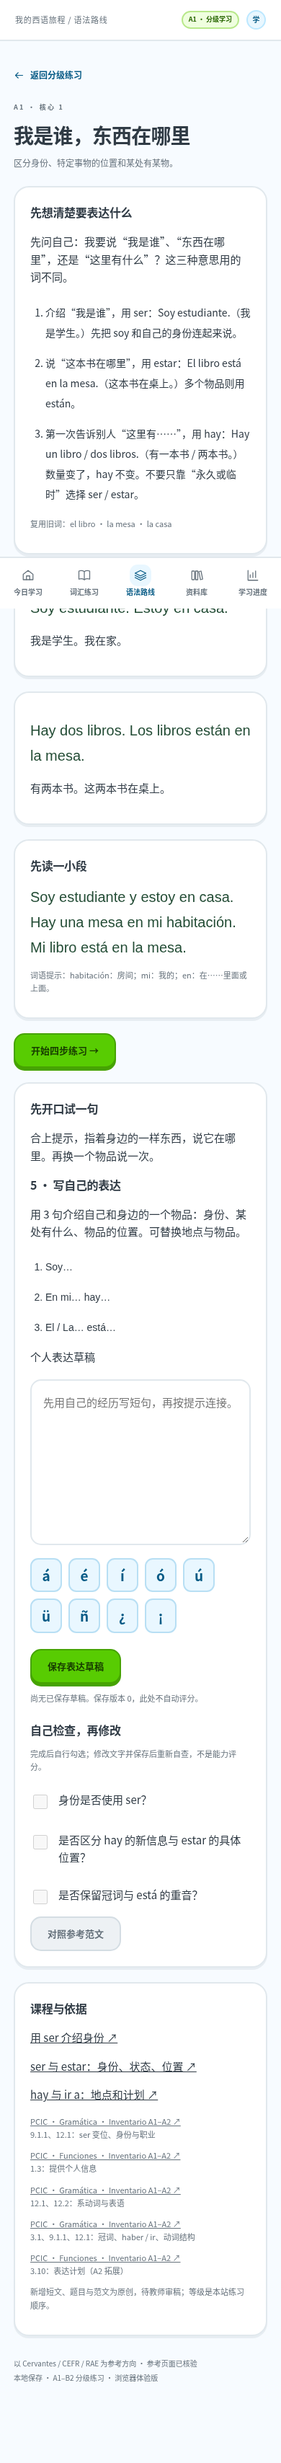
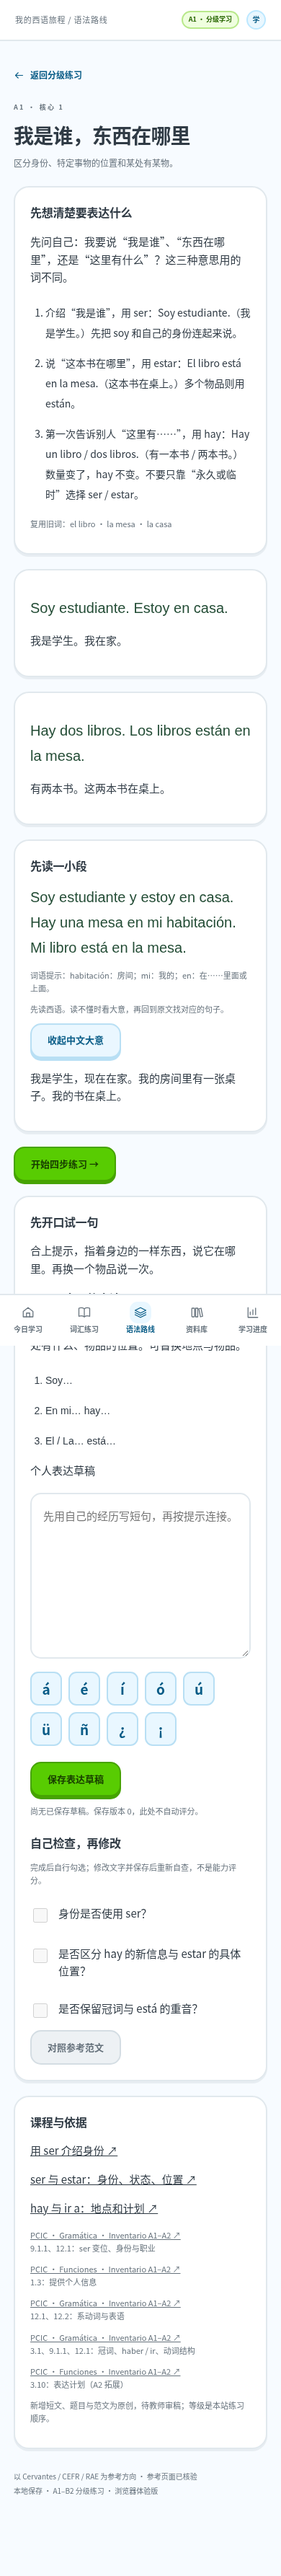
Add optional Chinese reading support across all practice levels

diff --git a/miniprogram/data/drill-coaching.js b/miniprogram/data/drill-coaching.js
@@ -1,121 +1,145 @@
 // 原创教学支架：先找到判断线索，再尝试作答；不存入学习成绩。
 module.exports = {
   'a1-place': {
+    meaning: "我是学生，现在在家。我的房间里有一张桌子。我的书在桌上。",
     approach: '先问自己：我要说“我是谁”、“东西在哪里”，还是“这里有什么”？这三种意思用的词不同。',
     transfer: '合上提示，指着身边的一样东西，说它在哪里。再换一个物品说一次。',
     hints: ['estudiante 说的是身份，不是人在什么地方。先判断意思，再选动词。', '这里已经知道是哪本书，只想说明位置。留意“这本书”是一个还是多个。', '第一句是在介绍有两本书；第二句说的是“这两本书”的位置。两句话不需要用同一个动词。', '先在短文里找 Mi libro，再看它后面的地点。']
   },
   'a1-routine': {
+    meaning: "安娜住在一座小城市。她早上学习西语，下午工作。每逢周日她不工作。",
     approach: '先找到“谁在做”。说“我学习”和“我们学习”时，西语会改变动词的结尾。',
     transfer: '不用看例句，说出你每天做的一件事，再用 no 说一件今天不做的事。',
     hints: ['Yo 是“我”。这句说的是“我学习”，先想 estudiar 与“我”搭配时怎样改变结尾。', 'Nosotros 是“我们”。回到 vivir 的我们形式，注意结尾。', '句子里两个动作都由同一个“我”做。检查两个动词，其他词先保持原样。', '题目问“不工作”的时间，找短文中 no trabaja 后面的时间词。']
   },
   'a1-likes': {
+    meaning: "路易斯喜欢咖啡，也喜欢苹果。他喜欢在家阅读，因为能学到新词。",
     approach: '说喜欢时，先看喜欢的是一个东西、多个东西，还是做一件事。暂时不用硬背“语法主语”这个术语。',
     transfer: '说一种你喜欢的东西，再说一种你喜欢做的事。试着用 porque 补一个理由。',
     hints: ['先看 los libros：是一本书，还是多本书？这决定动词是否加 n。', 'estudiar 表示“学习这件事”，不是多个东西。想想“喜欢做一件事”用哪种形式。', '分别检查 el café 和 las manzanas。一个是单数，一个是复数，不要把两处都写成一样。', '问“为什么”，先找到 porque，再读它后面的理由。']
   },
   'a2-weekend': {
+    meaning: "周六我去看望了一位朋友。我们先在她家吃饭，然后去了电影院，看了一部电影。最后我回了家。",
     approach: '先说活动发生在什么时候，再说谁做了什么。用“先、然后、最后”把昨天的事情串起来。',
     transfer: '不看范文，用两个短句说昨天做过的事，再用 después 连起来。',
     hints: ['Ayer 把活动放在昨天；yo 是“我”。这里要选 ver 表示一次已结束活动的形式。', '先看谁买票：Ana，不是 yo。第三人称过去式的重音也要写出来。', 'Ayer 提醒我们这是昨天的活动。把两个现在时动作改成“我做过了”的形式。', '先找到 fuimos al cine，再向前看 Primero 引出的活动。']
   },
   'a2-shopping': {
+    meaning: "安娜在一家商店里。她喜欢一件衬衫，可是这个尺码偏小。她问：“你能帮我一下吗？我需要大一点的尺码。”",
     approach: '先指清楚想买哪件东西，再请求帮助。再次提到同一件东西时，可以用一个小代词代替它。',
     transfer: '想象你在买一件衣服：先指给店员看，再请对方帮你找合适的尺码。',
     hints: ['camisas 是阴性，而且不止一件。指示词也要同时配合这两个特点。', '你买的是前面的 camisa。回想“它”作阴性单数宾语时用哪个代词。', 'Puedes 已经随“你”变了形式；后面的动作保持动词原形。只改后面一个动词。', '读 pero 后的尺码问题，再看 Necesito 提出的需要。']
   },
   'a2-plans': {
+    meaning: "明天我们打算去参观这座城市。如果天气晴朗，我们就去海滩；如果下雨，我们就去博物馆。博物馆比海滩离酒店更近。",
     approach: '先比较两个选择，再说什么条件下去哪里。注意：计划还没有发生，条件也可能不满足。',
     transfer: '为明天准备两个安排：晴天做什么，下雨做什么。分别用 si 开头说出来。',
     hints: ['tan 表示“一样……”。回想“tan + 形容词 + 连接词”这一整组。', 'Nosotros 是“我们”。这里只填 ir 的现在时，后面的 a visitar 已经给出。', 'podemos 表示“我们可以”，后面的动作不用再次按“我们”变位。', '找 Si llueve 这一句，不要选晴天时的安排。']
   },
   'b1-story': {
+    meaning: "安娜小时候住在一座安静的城市，每天下午都会阅读。有一天她搬到了马德里。第一晚她正在学习时，电话响了，是她的朋友打来的。",
     approach: '讲过去的故事时，先分清“当时一直怎样”和“后来发生了什么”，而不是只看一件事持续多久。',
     transfer: '先说过去的一种习惯，再补一个打断日常的事件，让别人听出两者的区别。',
     hints: ['De niño 和 cada tarde 说明童年反复做的事，不是在报告某一次读完一本书。', '学习是当时的背景，电话突然响了一次。空格需要推动故事的事件形式。', 'De niña 和 cada tarde 提示过去的生活与习惯。两个动词都按这个视角调整。', '找 primera noche 附近的句子，分清学习的背景与突然发生的事。']
   },
   'b1-advice': {
+    meaning: "路易斯想改善发音。安娜建议他每天大声朗读，也会慢慢说话，好让他听懂。路易斯通过复习来记住词语。",
     approach: '先看谁提出建议、谁要去做。说目的时，也看看前后是不是同一个人。',
     transfer: '给朋友一条学习建议，再解释你这样做是为了什么。先理清两句话里各是谁行动。',
     hints: ['建议是我提的，学习要由“你”做。que 后的动词需要表达建议，而非陈述你已经在学习。', '慢慢说话的是我，听懂的是你。para que 后要用与 tú 配合的虚拟式。', '学习和想学会西语的都是“我”。同一行动者说目的时，不需要 para que。', '先找 repasa（复习），看看是谁在复习、又是为了什么。']
   },
   'b1-opinion': {
+    meaning: "据老师说，阅读有助于学习词语。安娜觉得阅读有用，但并不认为只靠阅读就够了；她还需要练习对话。这个看法来自她自己的经历。",
     approach: '先说清自己的看法，再给理由；如果有不足，再补一句限制。“我认为”和“我不认为”常用不同语气。',
     transfer: '评论一种学习方法：说你觉得它哪里有用，再说它不能单独解决什么问题。',
     hints: ['这里直接肯定“课程有用”，用来陈述自己的判断。不要把肯定判断当成否定判断。', 'No creo 表示不认同“这本书足够”这个判断。回想 ser 在典型否定判断中的形式。', '先看 el curso 是单数，再把 ser 变成符合肯定判断的动词。', '找到 Ana 的评价，同时读 útil 后的转折，别只选“有用”而漏掉限制。']
   },
   'b2-concession': {
+    meaning: "这个项目需要花钱，也需要时间。玛尔塔虽然知道它要花钱，仍支持它，因为它能帮助社区。不过，她提出先做小范围试行。因此，她建议扩大项目之前先评估结果。",
     approach: '同样一句“虽然要花钱”，可以是在承认事实，也可以是在设想可能的费用。先判断说话者在做哪一种。',
     transfer: '分别为“费用已经确定”和“费用还未确定”写一句让步表达，解释你为什么选这种语气。',
     hints: ['题目把费用设为尚未确定的假设。先确定这个立场，再选择 aunque 从句的语气。', '这里明确把费用作为事实来陈述。与上一题的假设语境作比较，不要机械照抄。', '未来的支持决定保持不变；只处理从句里尚未确定的费用。', '找 antes de ampliarlo（扩大之前）前面的动作，看看先试行是为了什么。']
   },
   'b2-hypothesis': {
+    meaning: "团队没有足够的经费。如果资源更多，就会提供免费课程。但按现有预算，只能组织一个小组。所以团队建议先从十位参与者开始，之后再调整计划。",
     approach: '先交代现实限制，再设想“如果条件更好，会怎样”。让听者分清现在能做的事与理想情况。',
     transfer: '用一句话说明自己的现实限制，再设想条件改变后会怎样。最后说一个现在可执行的小办法。',
     hints: ['主句 estudiaría 提示这是设想的结果。si 从句要与这种假设配合，不能也写成条件式。', '这里在设想自己有更多时间。回想 tener 的 -ra 或 -se 形式，任选一种即可。', '错误在 si 后的动词。主句已经表示假设结果，先保持主句不变。', '区分 Si tuviera 描述的理想条件与 presupuesto actual 指出的现有条件。']
   },
   'b2-report': {
+    meaning: "周一，安娜宣布：“我明天会提交报告。”周三，路易斯写道，安娜曾宣布会在次日提交报告。他也说明，自己不知道她是否已经提交。",
     approach: '转述时先画一条时间线：谁在何时说话，你又在何时转述。原话中的“明天”不能脱离原来的日期。',
     transfer: '设定周一的一个计划，在周三转述它。再加一句说明计划是否已经得到确认。',
     hints: ['来访在原来说话的时间之后，但转述的参照点是过去。想想如何表达“从过去看未来”。', '报告是在宣布之后计划提交的。这里需要条件式，并注意词尾的重音。', '把原话里的 mañana 对应到具体星期，再判断周三说 mañana 会不会指到另一天。', '找到 no sabía si 后面的内容：不知道是否完成，就不能当作已经完成。']
   },
   'a1-greetings': {
+    meaning: "早上，安娜走进一家咖啡馆，说：“早上好。请来一杯咖啡。”之后她说“谢谢”，服务员回答“不客气”。",
     approach: '把问候放进真实对话：打招呼、点单、道谢、回应。每句只完成一个小动作。',
     transfer: '用自己的名字或想点的饮品替换例词，开口演一遍两个人的小对话。',
     hints: ['现在是早晨。选见面时的问候，不要选回应“谢谢”的话。', '想想点单时怎样加上“请”。这是一组两个词的礼貌短语。', '这是直接提问。检查西语问句开头和结尾是否各有一个问号。', '找 Gracias 后服务员的回应，不要把顾客的点单当成回答。']
   },
   'a1-agreement': {
+    meaning: "我家里有一张小桌子和两本书。这些书很小。桌子附近有两把椅子，这些椅子很大。",
     approach: '说“这些小桌子”时，三个词要一起变化。先确定是一件还是多件，再让冠词和形容词跟着名词走。',
     transfer: '指着房间里的一件物品说一句，再把它想成两件，看看哪些词需要变化。',
     hints: ['先检查桌子是阴性，再检查每个词是否都表示多个。不要只看第一个词。', 'dos 提示不止一座城市。ciudad 以辅音结尾，想想这里加 -s 还是 -es。', 'libros 是阳性复数。两个需要修改的词都跟它配合，名词本身不用改。', '题目找“大”的物品。先找 grandes，再看是谁很大。']
   },
   'a1-questions': {
+    meaning: "路易斯在家学习。今天他不工作，因为是周日。安娜问：“你在读什么？”路易斯回答：“我在读一本西语书。”",
     approach: '提问前先想清楚要知道什么：地点、时间、人，还是原因。疑问词就像给问题贴一个标签。',
     transfer: '问朋友在哪里学习、为什么学习，再替自己回答一次。留意提问与回答中的“为什么 / 因为”。',
     hints: ['想知道在哪里，就选问地点的词，而不是问人或时间的词。', '题目在问原因。想想疑问的“为什么”是几个词，哪个词带重音。', '先找到表示动作的 estudio，再把 no 放到它前面。', '找到 no trabaja 后面的 porque，读它给出的原因。']
   },
   'a2-routine': {
+    meaning: "安娜七点起床。洗澡后，她准备早餐。她上午工作，晚上阅读，十一点睡觉。",
     approach: '说起床、洗澡、睡觉时，把小代词和动词作为一组来记，再用时间和顺序词连成一天。',
     transfer: '不看范文，说自己起床与睡觉的时间，再用 después de 补一项中间的活动。',
     hints: ['Yo 是“我”。先选 levantarse 与“我”搭配的小代词，后面的动词已经给出。', '题目要包括代词和动词。检查“我”的小代词，再检查 acostarse 的词干变化。', 'Después de 后面的动作使用不定式；不用按“我”再次变位。', '先在短文里找阅读的动作，再看它旁边的时间短语。']
   },
   'a2-help': {
+    meaning: "路易斯嗓子疼，打电话到医疗中心预约。他说自己需要和一位女医生聊一聊。接电话的人问了他的名字。",
     approach: '先说哪里不舒服，再说需要什么帮助。描述疼痛时，动词跟身体部位的单复数变化。',
     transfer: '用一个虚构场景练习描述不适和请求预约，只练表达，不把例句当作诊断或治疗办法。',
     hints: ['先看 los pies 表示一个还是多个部位，doler 的形式跟它配合。', 'la cabeza 是一个部位。与上一题的多个部位比较，动词需要不同结尾。', 'Tengo que 已经表示“我需要”。后面的具体动作使用动词原形。', '找 Luis 打电话时提出的请求，区分预约目的与身体不适的描述。']
   },
   'a2-travel': {
+    meaning: "安娜和路易斯已经订好了一个房间。安娜买好了票，路易斯给酒店写了信。他们还没有收拾行李，打算明天出发。",
     approach: '把“已经做了什么”拆成两部分：haber 随人称变化，后面接分词。本包专门练这种表达方式。',
     transfer: '说出旅行前已做的一项准备，再说一项还没完成的准备。两句都试用 haber 加分词。',
     hints: ['Yo 决定 haber 的人称形式；reservado 已经是分词，不用改它。', 'escribir 的分词不是规则的 -ido 形式。回想“写过”的常见不规则分词。', 'Hemos 已经随“我们”变了形式；把后面的 llegar 改成分词。', '找 todavía no 后的活动，别选已经完成的预订或联系酒店。']
   },
   'b1-relative': {
+    meaning: "玛尔塔在一所下午开课的学校学习。帮助她的老师会准备清晰易懂的练习。玛尔塔所在的城市有一家大图书馆。",
     approach: '先指出要介绍的人、物或地点，再把补充信息接上去。这样就能少重复一次名词。',
     transfer: '先用两句介绍自己熟悉的人或地点，再尝试合并成一句，检查指的还是同一个对象。',
     hints: ['La escuela 是地点；后面补充你在哪里学习。想想哪种关系词专门连接地点。', 'La profesora 指人，后面补充她怎样帮助你。这里不在说明地点。', '两句中的 curso 是同一个课程。保留第一句，把第二次出现的主语换成关系词。', '找学校提供课程的动词，再看后面的时间。']
   },
   'b1-wishes': {
+    meaning: "安娜写信给朋友：“很高兴你来到我们这座城市。我希望我们能一起学习。我希望自己五点到图书馆。”朋友回答说，她也想学习。",
     approach: '说高兴或希望时，先看前后是不是同一个人。“我希望自己来”和“我希望你来”的接法不同。',
     transfer: '分别说一个对自己的希望和一个对朋友的希望，看看哪句可以直接接不定式。',
     hints: ['把 alegrarse 的搭配作为一组回忆，que 前有一个介词，不能省掉。', '这里是对“你在这里”表达高兴。用 estar 与 tú 配合的虚拟式，检查重音。', '希望和到达的都是 yo。让到达直接接在 espero 后，不必另外开一个 que 从句。', '找 Espero 附近的愿望，确认是朋友们一起做的活动。']
   },
   'b1-anterior': {
+    meaning: "路易斯到车站时，火车已经开走了。他前一天就买好了票。之后，他打电话给安娜，解释了发生的事。安娜帮他寻找另一班火车。",
     approach: '先定一个过去的参照点，再问另一件事是在它之前还是之后。过去完成时用来把更早的事标出来。',
     transfer: '选两件过去的事，先说较晚的一件，再补一句交代此前已经完成的事。',
     hints: ['llegué 是参照点；火车离开发生得更早。salido 已经给出，只需补 haber。', '买票的是“我们”，并且发生在到达之前。把 haber 配合到 nosotros。', 'había 后要接分词，不能直接接动词原形。', '找 ya había 交代的更早活动，再与到达及发车比较。']
   },
   'b2-specific': {
+    meaning: "玛尔塔已经知道一个提供练习的课程。她的兄弟还在寻找有夜间课的课程，尚未找到符合要求的。玛尔塔建议他到另一所学校问一问。",
     approach: '先分清对象已经确定，还是只在提出寻找要求。我们“已有的课程”和“想找到的课程”用的语气可能不同。',
     transfer: '写一句介绍已有课程，再写一句寻找理想课程。用自己的话解释对象是否已经确定。',
     hints: ['这里还没找到课程，只是在列出要求。不要把这种要求写成已有对象的事实描述。', 'Tengo 表明老师已经确定存在。后面的经验是在介绍这位老师的情况。', 'No hay nadie 否定了对象的存在。结合整句意思选择 poder 的语气。', '比较 Marta 和她哥哥的情况，找到仍在寻找的人。']
   },
   'b2-passive': {
+    meaning: "采访了二十位参与者，随后分析了回答。结果发表在一份报告中。报告说明了方法，但没有包含参与者的姓名。",
     approach: '先看句子把注意力放在哪里：分析了什么、公布了什么，还是有人采访了谁。这决定动词怎样配合。',
     transfer: '写一句强调“结果”的报道，再写一句不说明采访者是谁的报道。检查两句的主语与宾语。',
     hints: ['这里的 los resultados 是被公布的事物，也决定被动 se 结构的动词数量。', 'Las muestras 是阴性复数。ser 后的被动分词也要与它配合。', 'a los participantes 是被采访的人。按题目指定的无人称 se 结构，不能让它决定动词的复数。', '找 no incluye（不包含）后面的内容。采访过某些人，不等于公开了他们的名单。']
   },
   'b2-evaluation': {
+    meaning: "团队提议开一家图书馆。重要的是让社区能够使用它。项目需要经费，不过可以先从一个小空间开始。因此，团队建议先试行并评估，再扩大。",
     approach: '先说明什么最重要，再给理由和限制，最后提出能验证的建议。连接词要帮助别人跟上你的思路。',
     transfer: '为一个学习活动提出改进：写清优先事项、一个限制，以及怎样判断改进是否有效。',
     hints: ['这里不是指某个阳性或阴性名词，而是在概括“重要的事情”。', 'Es importante que 引出对情况的评价；这里表达“有尊重”，用 haber 的虚拟式。', 'todos 决定参与者是复数；Es importante que 决定从句要用评价语境中的虚拟式。', '找到建议的先后顺序：先试行和评估，还是立即扩大？']

diff --git a/web/app.js b/web/app.js
@@ -154,10 +154,10 @@
   function drillPage(id) {
     const p=L.drillPacks.find(p=>p.id===id);
     if(!p)return '<div class="card empty">没有找到练习包。<a href="#drills">返回分级练习</a></div>';
-    if(!drillEditor||drillEditor.id!==id){const d=state.drillDrafts[id];drillEditor={id,text:d?d.text:'',saved:!!d,revisions:d?d.revisions:0,checks:d?d.checks:[],hasPrevious:!!d&&typeof d.previousText==='string',dirty:false,showModel:false};}
+    if(!drillEditor||drillEditor.id!==id){const d=state.drillDrafts[id];drillEditor={id,text:d?d.text:'',saved:!!d,revisions:d?d.revisions:0,checks:d?d.checks:[],hasPrevious:!!d&&typeof d.previousText==='string',dirty:false,showModel:false,showMeaning:false};}
     const unlocked=L.drillUnlocked(state,id),previous=L.drillPacks.find(d=>d.id===p.previousId);
     const head=`${btn(`${icon('back')} 返回分级练习`,'drills','','back')}${heading(`${p.level} · ${p.branch==='core'?'核心':'巩固'} ${p.levelNumber}`,p.title,p.goal)}`;
-    if(!unlocked||!drillQuiz||drillQuiz.id!==id)return `<section class="reading">${head}${unlocked?'':`<div class="notice">按前置关系练习，前一包“${esc(previous.title)}”最佳正确率至少 75%。${btn('查看前一包','drill',`data-id="${p.previousId}"`,'secondary')}</div>`}<div class="card"><h2>先想清楚要表达什么</h2><p>${esc(p.approach)}</p><ol class="rules">${p.rules.map(r=>`<li>${esc(r)}</li>`).join('')}</ol><p class="tiny">复用旧词：${esc(p.recycled.join(' · '))}</p></div>${p.examples.map(([es,zh])=>`<div class="card"><p class="example" lang="es">${esc(es)}</p><p>${esc(zh)}</p></div>`).join('')}<div class="card"><h2>先读一小段</h2><p class="example" lang="es">${esc(p.reading)}</p><p class="tiny">词语提示：${esc(p.glossary)}</p></div>${btn('开始四步练习 →','drill-begin',`data-id="${id}" ${unlocked?'':'disabled'}`)}${drillOutput(p,unlocked)}<div class="card"><h2>课程与依据</h2>${p.lessonIds.map(id=>`<p><a href="#lesson/${id}">${esc(C.lessons.find(l=>l.id===id).title)} ↗</a></p>`).join('')}${[...new Map(p.references.map(r=>[r.sourceId+r.section,r])).values()].map(r=>{const s=C.sources.find(s=>s.id===r.sourceId);return `<p class="tiny"><a href="${esc(s.url)}" target="_blank" rel="noopener noreferrer">${esc(s.title)} ↗</a><br>${esc(r.section)}</p>`;}).join('')}<p class="tiny">新增短文、题目与范文为原创，待教师审稿；等级是本站练习顺序。</p></div></section>`;
+    if(!unlocked||!drillQuiz||drillQuiz.id!==id)return `<section class="reading">${head}${unlocked?'':`<div class="notice">按前置关系练习，前一包“${esc(previous.title)}”最佳正确率至少 75%。${btn('查看前一包','drill',`data-id="${p.previousId}"`,'secondary')}</div>`}<div class="card"><h2>先想清楚要表达什么</h2><p>${esc(p.approach)}</p><ol class="rules">${p.rules.map(r=>`<li>${esc(r)}</li>`).join('')}</ol><p class="tiny">复用旧词：${esc(p.recycled.join(' · '))}</p></div>${p.examples.map(([es,zh])=>`<div class="card"><p class="example" lang="es">${esc(es)}</p><p>${esc(zh)}</p></div>`).join('')}<div class="card"><h2>先读一小段</h2><p class="example" lang="es">${esc(p.reading)}</p><p class="tiny">词语提示：${esc(p.glossary)}</p><p class="tiny">先读西语。读不懂时看大意，再回到原文找对应的句子。</p>${btn(drillEditor.showMeaning?'收起中文大意':'看中文大意','drill-meaning',`aria-expanded="${!!drillEditor.showMeaning}"`,'secondary')}${drillEditor.showMeaning?`<p class="reading-meaning">${esc(p.meaning)}</p>`:''}</div>${btn('开始四步练习 →','drill-begin',`data-id="${id}" ${unlocked?'':'disabled'}`)}${drillOutput(p,unlocked)}<div class="card"><h2>课程与依据</h2>${p.lessonIds.map(id=>`<p><a href="#lesson/${id}">${esc(C.lessons.find(l=>l.id===id).title)} ↗</a></p>`).join('')}${[...new Map(p.references.map(r=>[r.sourceId+r.section,r])).values()].map(r=>{const s=C.sources.find(s=>s.id===r.sourceId);return `<p class="tiny"><a href="${esc(s.url)}" target="_blank" rel="noopener noreferrer">${esc(s.title)} ↗</a><br>${esc(r.section)}</p>`;}).join('')}<p class="tiny">新增短文、题目与范文为原创，待教师审稿；等级是本站练习顺序。</p></div></section>`;
     if(drillQuiz.result){const r=drillQuiz.result,next=L.nextDrillPack(state,id);return `<section class="reading">${head}<div class="card result-card"><div class="result-score">${r.score}%</div><h2>${r.passed?'基础练习已达标':'再巩固一次'}</h2><p>答对 ${r.correct} / ${r.total} 题；错项保留在列表，重新练习答对后移除。</p><p class="tiny">75% 是本包继续练习的门槛，不能证明语言等级；个人表达需自行检查与反馈。</p><div class="actions">${btn('写自己的表达 →','drill-output')}${btn('重练四步练习','drill-begin',`data-id="${id}"`,'secondary')}${r.passed&&next?btn('继续下一包 →','drill',`data-id="${next.id}"`,'secondary'):''}</div></div></section>`;}
     const q=p.questions[drillQuiz.index],f=drillQuiz.feedback;
     return `<section class="reading">${head}${pill(`${drillQuiz.index+1} / 4`)}<h2 class="question-title">${esc(q.title)}</h2>${drillQuiz.index===3?`<div class="card"><p class="example" lang="es">${esc(p.reading)}</p><p class="tiny">${esc(p.glossary)}</p></div>`:''}<p>${esc(q.prompt)}</p>${UI.hint(q,drillQuiz,'drill')}${UI.controls({question:q,session:drillQuiz,prefix:'drill',limit:500,note:'重音和 ñ 也是拼写的一部分。可以用重音按钮输入。'})}${UI.feedback(f,{action:'drill-next',label:drillQuiz.index+1===drillQuiz.total?'保存并查看结果':'下一步 →'})}</section>`;
@@ -371,6 +371,7 @@
     }
     else if(action==='drill-reset'){const d=state.drillDrafts[drillEditor.id];Object.assign(drillEditor,{text:d?d.text:'',dirty:false,showModel:false,checks:d?d.checks:[]});render();}
     else if(action==='drill-revert'){if(!drillEditor||drillEditor.dirty)return;const d=commit(s=>L.revertDrillDraft(s,drillEditor.id));if(d){Object.assign(drillEditor,{text:d.text,revisions:d.revisions,checks:d.checks,hasPrevious:typeof d.previousText==='string',dirty:false,showModel:false});render();}}
+    else if(action==='drill-meaning'){if(!drillEditor)return;drillEditor.showMeaning=!drillEditor.showMeaning;render();}
     else if(action==='drill-model'){if(!drillEditor||drillEditor.dirty||!drillEditor.saved||!drillEditor.text.trim()||!L.drillUnlocked(state,drillEditor.id))return;drillEditor.showModel=!drillEditor.showModel;render();}
     else if(action==='nouns'){nounQuiz=null;navigate('nouns');}
     else if(action==='noun'){nounQuiz=null;navigate(`noun/${element.dataset.id}`);}

diff --git a/miniprogram/pages/drills/index.js b/miniprogram/pages/drills/index.js
@@ -23,11 +23,12 @@ Page({
     if (!pack) return wx.showToast({ title: '没有找到练习包', icon: 'none' });
     const state = S.load(), draft = state.drillDrafts[pack.id];
     this.pack = pack;
-    this.setData({ phase: 'read', pack, level: pack.level, unlocked: L.drillUnlocked(state, pack.id), previous: L.drillPacks.find(p => p.id === pack.previousId) || null,
+    this.setData({ phase: 'read', showMeaning: false, pack, level: pack.level, unlocked: L.drillUnlocked(state, pack.id), previous: L.drillPacks.find(p => p.id === pack.previousId) || null,
       references: [...new Map(pack.references.map(r => [r.sourceId + r.section, { ...r, ...L.course.sources.find(s => s.id === r.sourceId) }])).values()],
       text: draft ? draft.text : '', hasText: !!draft && !!draft.text.trim(), saved: !!draft, revisions: draft ? draft.revisions : 0, checks: draft ? draft.checks : [], hasPrevious: !!draft && typeof draft.previousText === 'string', dirty: false, showModel: false, result: null });
     this.showChecks(draft ? draft.checks : []);
   },
+  meaning() { if (this.data.phase === 'read') this.setData({ showMeaning: !this.data.showMeaning }); },
   draft(e) { this.setData({ text: e.detail.value, hasText: !!e.detail.value.trim(), dirty: true, showModel: false }); },
   draftAccent(e) { if (this.data.unlocked && this.data.text.length < 3000) this.setData({ text: this.data.text + e.currentTarget.dataset.char, hasText: true, dirty: true, showModel: false }); },
   showChecks(checks) { this.setData({ checks, rubricRows: this.pack.output.rubric.map((label, index) => ({ label, index, checked: checks.includes(index) })) }); },

diff --git a/tests/e2e/exercise-coaching.spec.js b/tests/e2e/exercise-coaching.spec.js
@@ -53,3 +53,25 @@ test('名词和各级订正沿用同一提示，查看不会修改学习记录',
     expect(await page.evaluate(() => JSON.parse(localStorage.getItem('hola-learning-v1')))).toEqual(state);
   }
 });
+
+test('24 包中文大意可选展开，换包或刷新收起，作答时只展示西语', async ({ page }) => {
+  test.setTimeout(60000);
+  for (const pack of L.drillPacks) {
+    await page.goto('/#drill/' + pack.id);
+    await expect(page.locator('.reading-meaning')).toHaveCount(0);
+    await page.getByRole('button', { name: '看中文大意', exact: true }).click();
+    await expect(page.locator('.reading-meaning')).toHaveText(pack.meaning);
+    await expect(page.getByText(pack.reading, { exact: true })).toBeVisible();
+    await page.getByRole('button', { name: '收起中文大意', exact: true }).click();
+    await expect(page.locator('.reading-meaning')).toHaveCount(0);
+  }
+  expect(await page.evaluate(() => localStorage.getItem('hola-learning-v1'))).toBeNull();
+  await page.goto('/#drill/a1-place');
+  await page.getByRole('button', { name: '看中文大意', exact: true }).click();
+  await page.reload(); await expect(page.locator('.reading-meaning')).toHaveCount(0);
+  await page.getByRole('button', { name: '看中文大意', exact: true }).click();
+  await page.getByRole('button', { name: '开始四步练习' }).click();
+  await expect(page.locator('.reading-meaning')).toHaveCount(0);
+  await expect(page.getByRole('button', { name: '看中文大意', exact: true })).toHaveCount(0);
+  expect(await page.evaluate(() => localStorage.getItem('hola-learning-v1'))).toBeNull();
+});

diff --git a/tests/miniprogram.test.js b/tests/miniprogram.test.js
@@ -60,6 +60,17 @@ test('原生订正提示不清除错项或提高原包分数', () => {
   p.next(); assert.equal(p.data.showHint, false);
   assert.equal(r.state.drills[pack.id].bestScore, 75);
 });
+test('原生短文大意默认收起，预览不开放练习，读后答题不显示翻译', () => {
+  const r = runtime(), p = r.loadPage('drills');
+  p.onLoad({ id: 'b2-report' }); assert.equal(p.data.showMeaning, false);
+  p.meaning(); assert.equal(p.data.showMeaning, true);
+  assert.ok(p.data.pack.meaning); p.begin(); assert.equal(p.data.phase, 'read');
+  p.open({ currentTarget: { dataset: { id: 'a1-place' } } });
+  assert.equal(p.data.showMeaning, false); p.meaning(); p.begin();
+  assert.equal(p.data.phase, 'quiz');
+  p.meaning(); assert.equal(p.data.phase, 'quiz');
+  assert.deepEqual(r.state, L.emptyState());
+});
 test('原生 A1–B2 递进包真实作答至 B2，保存草稿和错项，不产生主课程进度', () => {
   const r=runtime(),p=r.loadPage('drills');p.onLoad();assert.equal(p.data.packs.length,6);
   p.select({currentTarget:{dataset:{level:'B2'}}});p.open({currentTarget:{dataset:{id:'b2-report'}}});assert.equal(p.data.unlocked,false);p.begin();assert.equal(p.data.phase,'read');

diff --git a/miniprogram/data/drills.js b/miniprogram/data/drills.js
@@ -237,7 +237,7 @@ const packs = [
 packs.push(...require('./drill-extension')({ choice, text }));
 const levelNumbers = {};
 const labels = ['1 · 辨析', '2 · 填空', '3 · 纠错', '4 · 短阅读'];
-module.exports = packs.map((p, i) => ({ ...p, approach: coaching[p.id].approach, transfer: coaching[p.id].transfer, number: i + 1, levelNumber: levelNumbers[p.level] = (levelNumbers[p.level] || 0) + 1, branch: i < 12 ? 'core' : 'extension', previousId: p.previousId || (i ? packs[i - 1].id : null),
+module.exports = packs.map((p, i) => ({ ...p, meaning: coaching[p.id].meaning, approach: coaching[p.id].approach, transfer: coaching[p.id].transfer, number: i + 1, levelNumber: levelNumbers[p.level] = (levelNumbers[p.level] || 0) + 1, branch: i < 12 ? 'core' : 'extension', previousId: p.previousId || (i ? packs[i - 1].id : null),
   references: p.lessonIds.flatMap(id => course.lessons.find(l => l.id === id).references),
   questions: p.questions.map((q, j) => ({ ...q, hint: coaching[p.id].hints[j], id: `${p.id}-q${j + 1}`, title: labels[j] }))
 }));

diff --git a/scripts/capture-preview.js b/scripts/capture-preview.js
@@ -24,7 +24,10 @@ const L = require('../miniprogram/lib/learning');
       await page.goto('http://127.0.0.1:4173/#drills');
       if(name==='drills-b2-mobile')await page.getByRole('button',{name:'B2',exact:true}).click();
     }
-    if(name==='drill-reading-mobile')await page.goto('http://127.0.0.1:4173/#drill/a1-place');
+    if(name==='drill-reading-mobile'){
+      await page.goto('http://127.0.0.1:4173/#drill/a1-place');
+      await page.getByRole('button',{name:'看中文大意',exact:true}).click();
+    }
     if(name==='drill-hint-mobile'){
       await page.goto('http://127.0.0.1:4173/#drill/a1-place');
       await page.getByRole('button',{name:'开始四步练习'}).click();

diff --git a/README.md b/README.md
@@ -11,7 +11,7 @@
 - **四步入门**：发音、重音、名词阴阳性、冠词/名词/形容词配合，4 个 5–6 分钟微课与 16 道规则练习；可反复巩固，单独保存最佳分。
 - **A1 名词三步练习**：首批 8 个常用名词，补充冠词、阴阳性、复数与短语；24 道“选冠词 → 改形容词 → 补完整句”练习。逐题解析、重音输入、最佳正确率和待订正项独立保存，可反复巩固。
 - **A1–B2 递进练习**：每级 3 个核心包 + 3 个巩固包，共 24 包、96 道辨析 / 填空 / 纠错 / 阅读题、24 篇原创短阅读与 24 项个人表达任务。前置包最佳正确率至少 75% 后继续，保留错项、草稿与参考范文，逐步复用旧知识。
-- **先想明白，再自己说**：24 包提供情景引导与开口迁移练习；96 道分级题、24 道名词题可展开思路提示，集中订正沿用相同提示。讲解从“这句话想说什么”开始；反馈指出重音 / ü / ñ 的近似拼写问题，保留原答案要求。
+- **先想明白，再自己说**：24 包提供情景引导、可选中文阅读大意与开口迁移练习；96 道分级题、24 道名词题可展开思路提示，集中订正沿用相同提示。讲解从“这句话想说什么”开始；反馈指出重音 / ü / ñ 的近似拼写问题，保留原答案要求。
 - **前四周每日小任务**：28 天 / 84 项复习、理解和表达提示，连接已有微课、词卡、练习包与输出；沿用年度开始日，记录可反选，未来天只可预览。
 - **一年 A1 → B1 计划**：52 周加第 365 天复盘；A1 12 周、A2 16 周、B1 20 周及综合复盘 4 周，配套已有课程与表达任务，每周提供与本周材料对应的七天指南，以及听说读写自检。
 

diff --git a/docs/VALIDATION.md b/docs/VALIDATION.md
@@ -133,3 +133,9 @@
 - 验证结果：`npm test` **83 / 83 通过**；最终 `npm run test:e2e` **64 / 64 通过**，涵盖桌面和 Pixel 7。JS / JSON、16 页面注册 / WXML 结构、浏览器构建与词库预检通过。6500 去重条目和 6183 新增词元表达覆盖保持完整，源码 **1,351,324 字节**，低于 2 MiB。
 
 更新 [手机阅读引导](screenshots/drill-reading-mobile.png)，新增 [手机思路提示](screenshots/drill-hint-mobile.png) 并实际查看。提示截图为尚未保存整包的作答，未展示虚构完成成绩。微信官方编译、真机、教师审稿、真人听力和口语评价仍待完成；开口任务与书面自查不自动评分。
+
+## 2026-10-13 短文中文大意与逐步撤去支持
+
+24 篇原西语短文补上原创中文大意。两端阅读页默认收起，必要时展开，再回到西语查找对应句子；换包和浏览器刷新收起，作答页不展示中文大意。开放阅读预览不开放尚未达标的练习，展开状态不写入备份或成绩。译文不补充原文未交代的采访者、计划完成情况或家庭年龄关系，仍待教师审稿。
+
+本批 `npm test` **84 / 84 通过**；在上一批 **64 / 64 全量浏览器回归**基础上，针对受影响的分级练习与阅读支持运行桌面 / 手机 **12 / 12 通过**，包括全部 24 包大意的展开、收起、刷新、只读记录保护以及完整 A1→B2 作答。JS / JSON、16 页 WXML 结构、构建及词库预检通过；源码 **1,355,797 字节**，低于 2 MiB。更新手机阅读截图，展示手工展开的大意，未保存任何完成进度。微信官方编译、真机与教师审稿范围保持待完成。

diff --git a/docs/DEVELOPMENT.md b/docs/DEVELOPMENT.md
@@ -10,7 +10,7 @@
 
 浏览器 `web/exercise-ui.js` 共用选项、输入、提示及反馈的 HTML，并统一转义文本；`app.js` 负责路由与保存。新增脚本须同时加入 `web/index.html` 和构建复制清单；新增共享模块须加入构建模块清单。
 
-`data/drill-coaching.js` 按稳定包 ID 保存情景引导、四条思路提示与开口迁移任务。提示引导寻找线索，不直接展示完整答案；新包必须补齐教学支架。详细规则仍放在原包中，避免另建一套覆盖规则的文案表。术语宜接在具体句子和意思之后，先让学习者知道为什么这样说。
+`data/drill-coaching.js` 按稳定包 ID 保存情景引导、短文中文大意、四条思路提示与开口迁移任务。提示引导寻找线索，不直接展示完整答案；新包必须补齐教学支架。详细规则仍放在原包中，避免另建一套覆盖规则的文案表。术语宜接在具体句子和意思之后，先让学习者知道为什么这样说。`showMeaning` 仅控制阅读页的临时展开状态，不进入备份，作答页不展示中文大意。
 
 ## 修改课程
 

diff --git a/docs/PROGRESSIVE_PRACTICE.md b/docs/PROGRESSIVE_PRACTICE.md
@@ -4,6 +4,8 @@
 
 每包先用情景说明“为什么要这样说”，再读例句和规则。答题时可选择“需要一点提示”，先找人称、数量、时间或话语立场等线索；翻题后提示收起。答完尝试合上材料开口说一句，再写自己的表达，逐步减少对例句的依赖。集中订正沿用同一思路提示；查看提示本身不写成绩、清除错项或开放后续包。重音 / ü / ñ 的近似拼写得到专门提醒，但仍需准确写出才算答对。
 
+24 篇短文可在阅读页展开中文大意：先读西语，必要时借助中文理解整段，再回到原文找对应句子。换包或刷新时默认收起；作答页只展示原西语短文和词语提示。翻译只帮助理解，不保存成绩或开放尚未达标的练习；译文为原创，待教师审稿。
+
 | 层级 | 包 ID | 核心任务 | 配套课程 |
 | --- | --- | --- | --- |
 | A1 | a1-place | 区分身份、特定位置与存在，写三句介绍 | g2 / g4 / g8 |

diff --git a/docs/ROADMAP.md b/docs/ROADMAP.md
@@ -51,6 +51,8 @@
 
 名词与分级包共用临时作答状态和原生页面控制器；浏览器共用选项、输入、提示及反馈组件，每日与每周指南共用内容导航。提示不存入成绩，翻题自动收起，保存失败可重试，原题 ID、前置关系和 version 1 备份保持兼容。
 
+24 篇短文另提供可选中文大意，阅读时必要才展开，作答时回到西语原文；换包默认收起。预览阅读支持不开放尚未达标的练习，译文待教师审稿。
+
 ## 下一轮优先：持续提高材料与反馈质量
 
 现有 24 包已经涉及 32 课的主题。继续逐包补足阅读词语支持、个人化对话及新情景迁移，检查学习者是否能脱离例句使用；将材料接入每日安排，避免只靠题量增加推进。同步推进教师审稿和有明确授权的听说材料。
